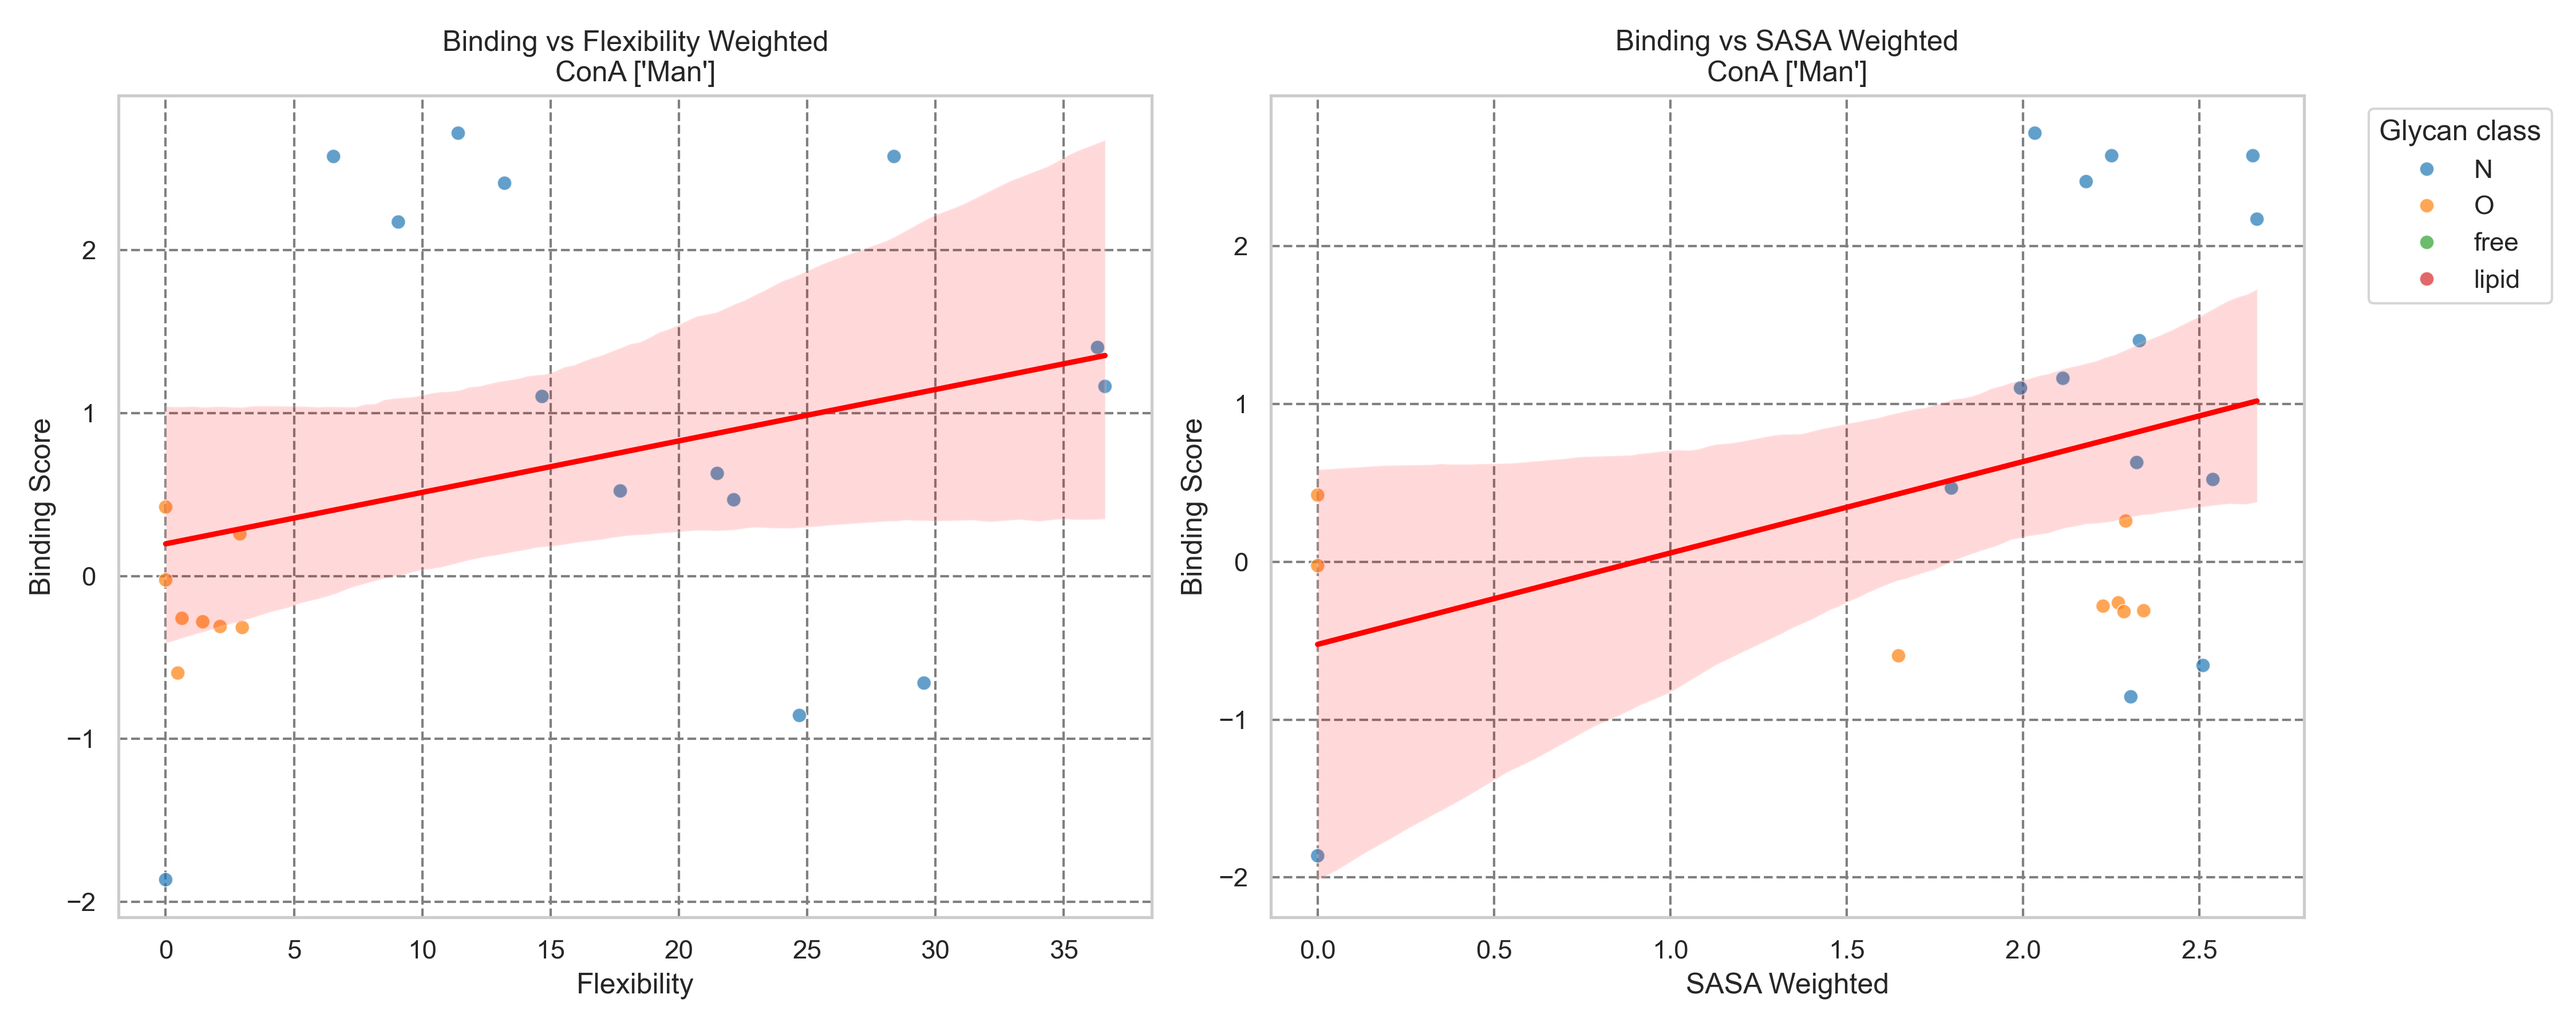
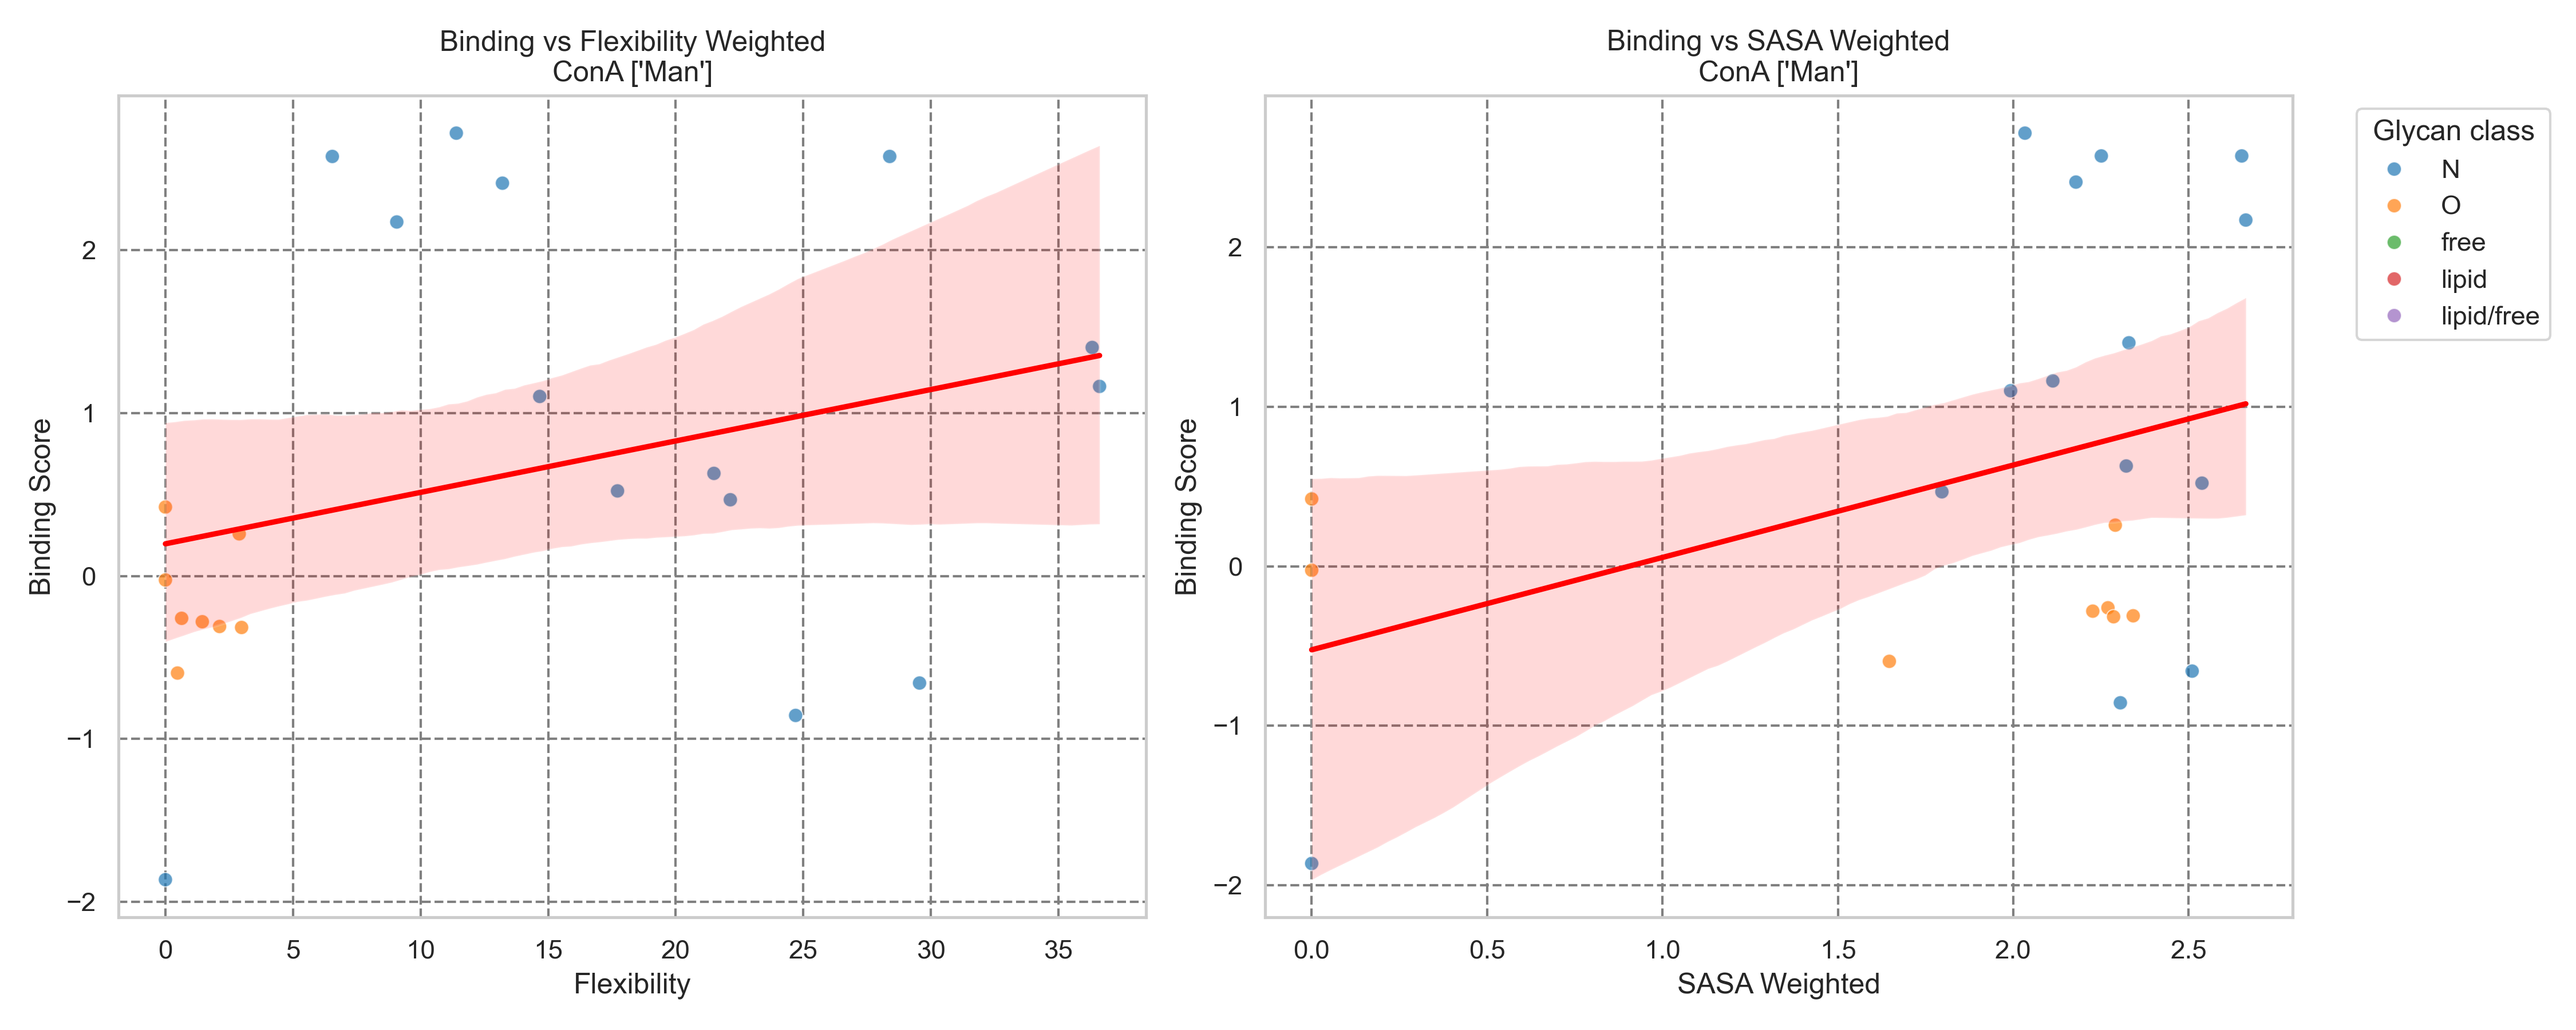
get_class lipid/free

diff --git a/scripts/correlation/func/plot_corr_regg.py b/scripts/correlation/func/plot_corr_regg.py
@@ -44,7 +44,7 @@ def plot_combined_colors(metric_df, lectin, binding_motif):
         y='binding_score',
         data=metric_df,
         hue='class',
-        hue_order=['N', 'O', "free","lipid", ""],
+        hue_order=['N', 'O', "free", "lipid", "lipid/free" , ''],
         palette="tab10",
         # Use glycan column for coloring
         alpha=0.7
